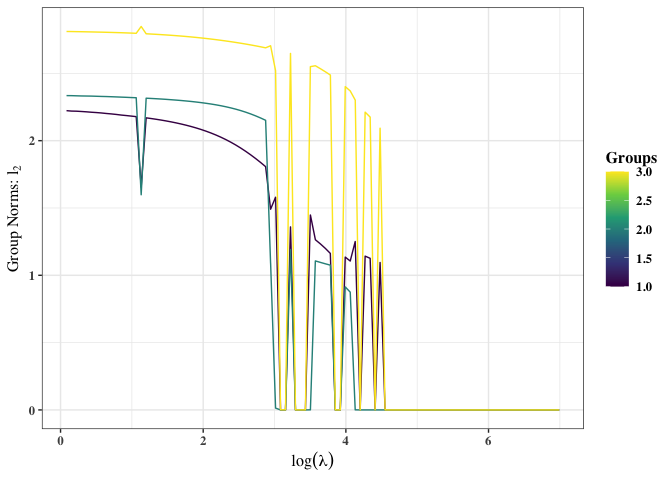
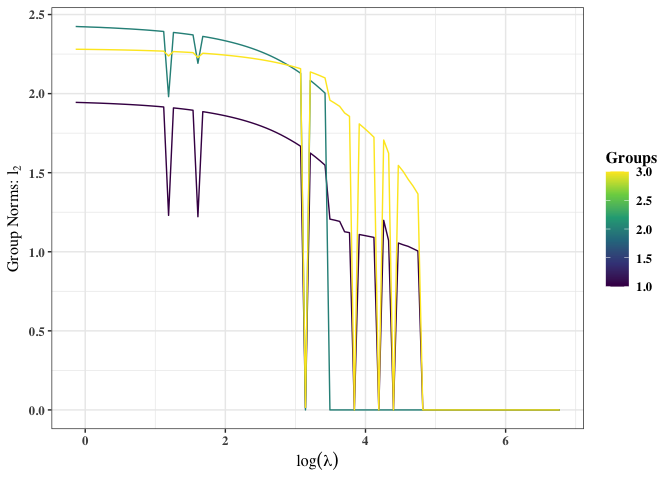
made changes v2

diff --git a/README.md b/README.md
@@ -85,8 +85,8 @@ rho = 0.2  # correlation
 # ----True parameters for 3 clusters----
 betas <- matrix(c(
   1,  2, -1,  0.5,   # component 1
-  5, -2,  1,  1.5,   # component 2
-  -3, 0,  2, -1      # component 3
+  5, -2,  1,  0,   # component 2
+  -3, 0,  2, 0      # component 3
 ), nrow = G, byrow = TRUE)
 pis <- c(0.4, 0.4, 0.2)
 sigmas <- c(3, 1.5, 1)
@@ -128,18 +128,18 @@ mod <- FGMRM(x = X, y = y, G = 6)
 #> 
 #>  selected model for g = 2 
 #> 
-#>  lambda = 0.98 || alpha = 1 || BIC = 2730.52 
+#>  lambda = 50.85 || alpha = 1 || BIC = 2713.28 
 #> 
 #>  Components     1      2
-#>  Pi           0.577  0.423
-#>  Sigma        3.676  1.259
+#>  Pi           0.563  0.437
+#>  Sigma        3.537  1.306
 #> 
 #>  Beta (Regression Parameters)
 #>   Components     1      2
-#>   Intercept   -0.418  5.128
-#>   Beta 1       1.164 -2.074
-#>   Beta 2       0.296  0.877
-#>   Beta 3      -0.420  1.675
+#>   Intercept   -0.598  5.234
+#>   Beta 1       1.082 -1.748
+#>   Beta 2       0.098  0.748
+#>   Beta 3       0.000  0.000
 #> 
 #> 
 #> -- g = 3 --
@@ -147,18 +147,18 @@ mod <- FGMRM(x = X, y = y, G = 6)
 #> 
 #>  selected model for g = 3 
 #> 
-#>  lambda = 4.09 || alpha = 1 || BIC = 2684.63 
+#>  lambda = 0.87 || alpha = 0.7 || BIC = 2671.6 
 #> 
 #>  Components     1      2      3
-#>  Pi           0.145  0.422  0.433
-#>  Sigma        0.799  3.086  1.281
+#>  Pi           0.152  0.405  0.444
+#>  Sigma        0.842  2.931  1.297
 #> 
 #>  Beta (Regression Parameters)
 #>   Components     1      2      3
-#>   Intercept   -3.238  0.793  5.082
-#>   Beta 1       0.000  1.950 -2.078
-#>   Beta 2       1.927 -1.191  0.906
-#>   Beta 3      -0.960  0.332  1.622
+#>   Intercept   -3.331  0.793  5.081
+#>   Beta 1       0.036  1.987 -2.051
+#>   Beta 2       1.941 -1.323  0.991
+#>   Beta 3       0.111  0.426  0.109
 #> 
 #> 
 #> -- g = 4 --
@@ -166,18 +166,18 @@ mod <- FGMRM(x = X, y = y, G = 6)
 #> 
 #>  selected model for g = 4 
 #> 
-#>  lambda = 3.48 || alpha = 1 || BIC = 2701.54 
+#>  lambda = 40.77 || alpha = 0.7 || BIC = 2736.61 
 #> 
 #>  Components     1      2      3      4
-#>  Pi           0.154  0.379  0.108  0.359
-#>  Sigma        0.826  2.964  0.979  1.077
+#>  Pi           0.526  0.032  0.017  0.425
+#>  Sigma        3.456  0.422  0.053  1.288
 #> 
 #>  Beta (Regression Parameters)
 #>   Components     1      2      3      4
-#>   Intercept   -3.205  0.712  3.447  5.299
-#>   Beta 1       0.000  2.266 -1.340 -2.124
-#>   Beta 2       1.947 -1.373  1.681  0.852
-#>   Beta 3      -0.976  0.355  0.171  1.748
+#>   Intercept   -0.874  1.986  4.830  5.278
+#>   Beta 1       1.181  0.000  0.000 -1.746
+#>   Beta 2       0.164  0.000  0.000  0.750
+#>   Beta 3       0.000  0.000  0.000  0.000
 #> 
 #> 
 #> -- g = 5 --
@@ -185,18 +185,18 @@ mod <- FGMRM(x = X, y = y, G = 6)
 #> 
 #>  selected model for g = 5 
 #> 
-#>  lambda = 3.71 || alpha = 1 || BIC = 2719.09 
+#>  lambda = 5.01 || alpha = 0.9 || BIC = 2692.74 
 #> 
 #>  Components     1      2      3      4      5
-#>  Pi           0.157  0.346  0.032  0.105  0.360
-#>  Sigma        0.839  2.999  0.888  0.965  1.081
+#>  Pi           0.154  0.373  0.025  0.024  0.425
+#>  Sigma        0.845  2.861  0.387  0.096  1.271
 #> 
 #>  Beta (Regression Parameters)
 #>   Components     1      2      3      4      5
-#>   Intercept   -3.212  0.636  1.338  3.514  5.309
-#>   Beta 1       0.000  2.378  0.000 -1.303 -2.112
-#>   Beta 2       1.931 -1.431  0.000  1.668  0.851
-#>   Beta 3      -0.974  0.327  0.000  0.193  1.740
+#>   Intercept   -3.341  0.611  1.947  4.811  5.124
+#>   Beta 1       0.022  2.161  0.000  0.000 -2.061
+#>   Beta 2       1.907 -1.361  0.000  0.000  0.999
+#>   Beta 3       0.074  0.408  0.000  0.000  0.104
 #> 
 #> 
 #> -- g = 6 --
@@ -204,18 +204,18 @@ mod <- FGMRM(x = X, y = y, G = 6)
 #> 
 #>  selected model for g = 6 
 #> 
-#>  lambda = 10.37 || alpha = 0.7 || BIC = 2730.53 
+#>  lambda = 20.51 || alpha = 1 || BIC = 2704.4 
 #> 
 #>  Components     1      2      3      4      5      6
-#>  Pi           0.144  0.027  0.044  0.016  0.309  0.460
-#>  Sigma        0.845  0.229  0.758  0.019  3.132  1.377
+#>  Pi           0.148  0.017  0.070  0.023  0.310  0.433
+#>  Sigma        0.860  0.222  1.128  0.092  2.978  1.279
 #> 
 #>  Beta (Regression Parameters)
 #>   Components     1      2      3      4      5      6
-#>   Intercept   -3.492 -1.836  0.827  2.408  0.728  5.058
-#>   Beta 1       0.000  0.000  0.000  0.000  2.335 -1.952
-#>   Beta 2       1.710  0.000  0.000  0.000 -1.351  0.910
-#>   Beta 3      -0.811  0.000  0.000  0.000  0.313  1.533
+#>   Intercept   -3.476 -1.947  1.270  4.813  0.506  5.166
+#>   Beta 1       0.000  0.000  0.000  0.000  2.238 -1.957
+#>   Beta 2       1.724  0.000  0.000  0.000 -1.291  0.922
+#>   Beta 3       0.000  0.000  0.000  0.000  0.309  0.056
 #> 
 #> -------------------------------------------------------------------------------- 
 #> 
@@ -223,18 +223,18 @@ mod <- FGMRM(x = X, y = y, G = 6)
 #> 
 #>  G = 3 
 #> 
-#>  lambda = 4.09 || alpha = 1 || log-likelihood = -1292.6 || BIC = 2684.63 || MSE = 3.2 
+#>  lambda = 0.87 || alpha = 0.7 || log-likelihood = -1282.97 || BIC = 2671.6 || MSE = 2.84 
 #> 
 #>  Components     1      2      3
-#>  Pi           0.145  0.422  0.433
-#>  Sigma        0.799  3.086  1.281
+#>  Pi           0.152  0.405  0.444
+#>  Sigma        0.842  2.931  1.297
 #> 
 #>  Beta (Regression Parameters)
 #>   Components     1      2      3
-#>   Intercept   -3.238  0.793  5.082
-#>   Beta 1       0.000  1.950 -2.078
-#>   Beta 2       1.927 -1.191  0.906
-#>   Beta 3      -0.960  0.332  1.622
+#>   Intercept   -3.331  0.793  5.081
+#>   Beta 1       0.036  1.987 -2.051
+#>   Beta 2       1.941 -1.323  0.991
+#>   Beta 3       0.111  0.426  0.109
 #> 
 #> --------------------------------------------------------------------------------
 ```
@@ -308,17 +308,17 @@ summary(mod)
 #> 
 #>  G = 3 
 #> 
-#>  lambda = 4.09 || alpha = 1 || log-likelihood = -1292.6 || BIC = 2684.63 || MSE = 3.2 
+#>  lambda = 0.87 || alpha = 0.7 || log-likelihood = -1282.97 || BIC = 2671.6 || MSE = 2.84 
 #> 
 #>  Components     1      2      3
-#>  Pi           0.145  0.422  0.433
-#>  Clusters        82    173    245
-#>  Sigma        0.799  3.086  1.281
+#>  Pi           0.152  0.405  0.444
+#>  Clusters        88    166    246
+#>  Sigma        0.842  2.931  1.297
 #> 
 #>  Beta (Regression Parameters)
 #>   Components     1      2      3
-#>   Intercept   -3.238  0.793  5.082
-#>   Beta 1       0.000  1.950 -2.078
-#>   Beta 2       1.927 -1.191  0.906
-#>   Beta 3      -0.960  0.332  1.622
+#>   Intercept   -3.331  0.793  5.081
+#>   Beta 1       0.036  1.987 -2.051
+#>   Beta 2       1.941 -1.323  0.991
+#>   Beta 3       0.111  0.426  0.109
 ```
